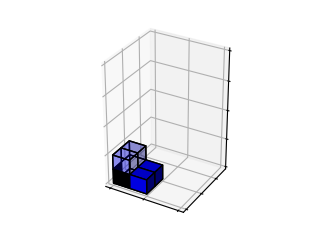
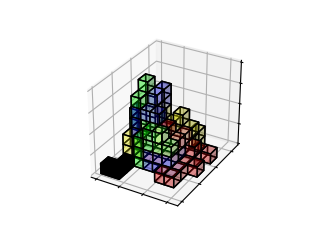
continue removal of hardcoding
it now mostly works for the selected number of players and cp/human

Changed region(s): [[0.2812, 0.1167, 0.7812, 0.9042]]

diff --git a/templates/index.html b/templates/index.html
@@ -16,8 +16,8 @@
     <input type="checkbox" id="check1" name="check1" checked />
     <label for="cp_human1">Player 1</label>
     <select name="cp_human1" id="cp_human1">
-        <option value="CP">CP</option>
-        <option value="Human">Human</option>
+        <option value="cp">CP</option>
+        <option value="human">Human</option>
     </select>
     <select name="color1" id="color1">
         <option value="yellow">Yellow</option>
@@ -31,8 +31,8 @@
     <input type="checkbox" id="check2" name="check2" checked />
     <label for="cp_human2">Player 2</label>
     <select name="cp_human2" id="cp_human2">
-        <option value="CP">CP</option>
-        <option value="Human">Human</option>
+        <option value="cp">CP</option>
+        <option value="human">Human</option>
     </select>
     <select name="color2" id="color2">
         <option value="yellow">Yellow</option>
@@ -46,8 +46,8 @@
     <input type="checkbox" id="check3" name="check3" />
     <label for="cp_human3">Player 3</label>
     <select name="cp_human3" id="cp_human3">
-        <option value="CP">CP</option>
-        <option value="Human">Human</option>
+        <option value="cp">CP</option>
+        <option value="human">Human</option>
     </select>
     <select name="color3" id="color3">
         <option value="yellow">Yellow</option>
@@ -61,8 +61,8 @@
     <input type="checkbox" id="check4" name="check4" />
     <label for="cp_human4">Player 4</label>
     <select name="cp_human4" id="cp_human4">
-        <option value="CP">CP</option>
-        <option value="Human">Human</option>
+        <option value="cp">CP</option>
+        <option value="human">Human</option>
     </select>
     <select name="color4" id="color4">
         <option value="yellow">Yellow</option>

diff --git a/app.py b/app.py
@@ -16,10 +16,10 @@ def hello():
         check2 = True if request.form.get("check2") == 'on' else False
         check3 = True if request.form.get("check3") == 'on' else False
         check4 = True if request.form.get("check4") == 'on' else False
-        cphuman1 = 'cp' if request.form.get("cphuman1") == 'CP' else 'human'
-        cphuman2 = 'cp' if request.form.get("cphuman2") == 'CP' else 'human'
-        cphuman3 = 'cp' if request.form.get("cphuman3") == 'CP' else 'human'
-        cphuman4 = 'cp' if request.form.get("cphuman4") == 'CP' else 'human'
+        cphuman1 = request.form.get("cp_human1")
+        cphuman2 = request.form.get("cp_human2")
+        cphuman3 = request.form.get("cp_human3")
+        cphuman4 = request.form.get("cp_human4")
         color1 = request.form.get("color1")
         color2 = request.form.get("color2")
         color3 = request.form.get("color3")
@@ -46,28 +46,22 @@ def hello():
 @app.route('/nextturn', methods=['POST'])
 def nextTurn():
     data = request.get_json()  # retrieve the data sent from JavaScript
-    # session['turn'] += 1
     print(f"Turn: {session['turn']}")
 
     players = jsonpickle.decode(session['players'])
     grid = jsonpickle.decode(session['grid'])
 
-    player_turn = (session['turn'] % len(players)) + 1
-    next_player_turn = ((session['turn'] + 1) % len(players)) + 1
+    player_turn = str((session['turn'] % len(players)) + 1)
+    next_player_turn = str(((session['turn'] + 1) % len(players)) + 1)
     print(f"Player {player_turn}'s turn, next turn: {next_player_turn} (# players: {len(players)})")
 
-    players[str(player_turn)].turn += 1  # TODO: hardcoded
-    players[str(next_player_turn)].draw_pieces(grid, players, 0, 0, 0, 0, 0, 0)  # TODO: hardcoded
+    players[player_turn].turn += 1
+    players[next_player_turn].draw_pieces(grid, players, 0, 0, 0, 0, 0, 0)
 
-    # if (session['turn'] % len(players)) + 1 != 2:  # TODO: hardcoded
-    #     players, grid = play_turn(session['turn'], players, grid)
-    # else:
-    #     players, grid = human_move(players, grid, data['piece'])
-
-    if players[str(player_turn)].owner == 'cp':  # TODO: hardcoded
+    if players[player_turn].owner == 'cp':
         players, grid = play_turn(session['turn'], players, grid)
-    elif players[str(player_turn)].owner == 'human':
-        players, grid = human_move(players, grid, data['piece'])
+    elif players[player_turn].owner == 'human':
+        players, grid = human_move(player_turn, players, grid, data['piece'])
 
     # Reset profile places for each player
     for player in players.values():
@@ -90,35 +84,35 @@ def move_piece():
     player_turn = str((session['turn'] % len(players)) + 1)
     move = data['move']
 
-    player = players[str(2)]  # TODO: hardcoded
+    player = players[player_turn]
     current_x, current_y, current_z, rot_x, rot_y, rot_z = player.piece_profile_positions
     if move == 'right':
         player.piece_profile_positions = (current_x + 1, current_y, current_z, rot_x, rot_y, rot_z)
-        players[player_turn].draw_pieces(grid, players, current_x + 1, current_y, current_z, rot_x, rot_y, rot_z)  # TODO: hardcoded
+        players[player_turn].draw_pieces(grid, players, current_x + 1, current_y, current_z, rot_x, rot_y, rot_z)
     elif move == 'left':
         player.piece_profile_positions = (current_x - 1, current_y, current_z, rot_x, rot_y, rot_z)
-        players[player_turn].draw_pieces(grid, players, current_x - 1, current_y, current_z, rot_x, rot_y, rot_z)  # TODO: hardcoded
+        players[player_turn].draw_pieces(grid, players, current_x - 1, current_y, current_z, rot_x, rot_y, rot_z)
     elif move == 'away':
         player.piece_profile_positions = (current_x, current_y + 1, current_z, rot_x, rot_y, rot_z)
-        players[player_turn].draw_pieces(grid, players, current_x, current_y + 1, current_z, rot_x, rot_y, rot_z)  # TODO: hardcoded
+        players[player_turn].draw_pieces(grid, players, current_x, current_y + 1, current_z, rot_x, rot_y, rot_z)
     elif move == 'towards':
         player.piece_profile_positions = (current_x, current_y - 1, current_z, rot_x, rot_y, rot_z)
-        players[player_turn].draw_pieces(grid, players, current_x, current_y - 1, current_z, rot_x, rot_y, rot_z)  # TODO: hardcoded
+        players[player_turn].draw_pieces(grid, players, current_x, current_y - 1, current_z, rot_x, rot_y, rot_z)
     elif move == 'up':
         player.piece_profile_positions = (current_x, current_y, current_z + 1, rot_x, rot_y, rot_z)
-        players[player_turn].draw_pieces(grid, players, current_x, current_y, current_z + 1, rot_x, rot_y, rot_z)  # TODO: hardcoded
+        players[player_turn].draw_pieces(grid, players, current_x, current_y, current_z + 1, rot_x, rot_y, rot_z)
     elif move == 'down':
         player.piece_profile_positions = (current_x, current_y, current_z - 1, rot_x, rot_y, rot_z)
-        players[player_turn].draw_pieces(grid, players, current_x, current_y, current_z - 1, rot_x, rot_y, rot_z)  # TODO: hardcoded
+        players[player_turn].draw_pieces(grid, players, current_x, current_y, current_z - 1, rot_x, rot_y, rot_z)
     elif move == 'x':
         player.piece_profile_positions = (current_x, current_y, current_z, rot_x, rot_y, rot_z + 1)
-        players[player_turn].draw_pieces(grid, players, current_x, current_y, current_z, rot_x, rot_y, rot_z + 1)  # TODO: hardcoded
+        players[player_turn].draw_pieces(grid, players, current_x, current_y, current_z, rot_x, rot_y, rot_z + 1)
     elif move == 'y':
         player.piece_profile_positions = (current_x, current_y, current_z, rot_x + 1, rot_y, rot_z)
-        players[player_turn].draw_pieces(grid, players, current_x, current_y, current_z, rot_x + 1, rot_y, rot_z)  # TODO: hardcoded
+        players[player_turn].draw_pieces(grid, players, current_x, current_y, current_z, rot_x + 1, rot_y, rot_z)
     elif move == 'z':
         player.piece_profile_positions = (current_x, current_y, current_z, rot_x, rot_y + 1, rot_z)
-        players[player_turn].draw_pieces(grid, players, current_x, current_y, current_z, rot_x, rot_y + 1, rot_z)  # TODO: hardcoded
+        players[player_turn].draw_pieces(grid, players, current_x, current_y, current_z, rot_x, rot_y + 1, rot_z)
 
     session['players'] = jsonpickle.encode(players)
 
@@ -129,8 +123,9 @@ def move_piece():
 def reset():
     players = jsonpickle.decode(session['players'])
     grid = jsonpickle.decode(session['grid'])
-    players[str(2)].piece_profile_positions = (0, 0, 0, 0, 0, 0)  # TODO: hardcoded
-    players[str(2)].draw_pieces(grid, players, 0, 0, 0, 0, 0, 0)  # TODO: hardcoded
+    player_turn = str((session['turn'] % len(players)) + 1)
+    players[player_turn].piece_profile_positions = (0, 0, 0, 0, 0, 0)
+    players[player_turn].draw_pieces(grid, players, 0, 0, 0, 0, 0, 0)
     session['players'] = jsonpickle.encode(players)
     return jsonify('abc')  # TODO: useless
 

diff --git a/modules/functions.py b/modules/functions.py
@@ -47,12 +47,12 @@ class Competitor:
                     # print('piece in the way')
                     # raise ValueError
                 if self.turn > 1:
-                    adjacent, adjacent_bool = check_adjacent(grid.grid, layer, 2)  # TODO: hardcoded
+                    adjacent, adjacent_bool = check_adjacent(grid.grid, layer, self.number)
                     if adjacent_bool is False:
                         pass
                         # print('adjacent_bool = False')
                         # raise ValueError
-                nothanging_bool = check_nothanging(grid.grid, layer, 2)  # TODO: hardcoded
+                nothanging_bool = check_nothanging(grid.grid, layer, self.number)
                 if nothanging_bool is False:
                     pass
                     # print('nothanging_bool = False')
@@ -296,6 +296,7 @@ def check_nothanging(grid, layer, player):
 
 
 def play_move(player, grid, start, turn_2):
+    # TODO: this function sucks
     attempt_counter = 0
 
     while True:
@@ -348,19 +349,19 @@ def play_move(player, grid, start, turn_2):
             return grid, None
 
 
-def human_move(players, grid, piece_i):
-    player = players[str(2)]  # TODO: hardcoded
+def human_move(player_turn, players, grid, piece_i):
+    print(f'Human move for player {player_turn}')
+    player = players[player_turn]
 
     piece_i = player.piece_names_list.index(piece_i)
     piece = player.piece_list[piece_i]
     x, y, z, rot_x, rot_y, rot_z = player.piece_profile_positions
-    print(x, y, z, rot_x, rot_y, rot_z)
 
     piece_name = player.piece_names_list[piece_i]
     piece = orient2(piece, rot_x, rot_y, rot_z)
     layer = fill_out2(piece, grid.grid, x, y, z)
     grid.grid += layer
-    title_string = f'Player {2} Turn {2}: {piece_name}'  # TODO: hardcoded
+    title_string = f'Player {player_turn} Turn {player.turn}: {piece_name}'
     ax = grid.draw_board(title_string, players=players)
     ax_90 = grid.draw_board(title_string, rotation=2, players=players)
     ax_180 = grid.draw_board(title_string, rotation=1, players=players)
@@ -462,7 +463,6 @@ def play_turn(turn, players, grid):
     # Figure out whose turn it is and get their available pieces
     num_players = len(players)
     player_num = (turn % num_players) + 1
-    print(f"player_num: {player_num}")
     player = players[str(player_num)]
 
     # Indicate if it's the player's first turn
